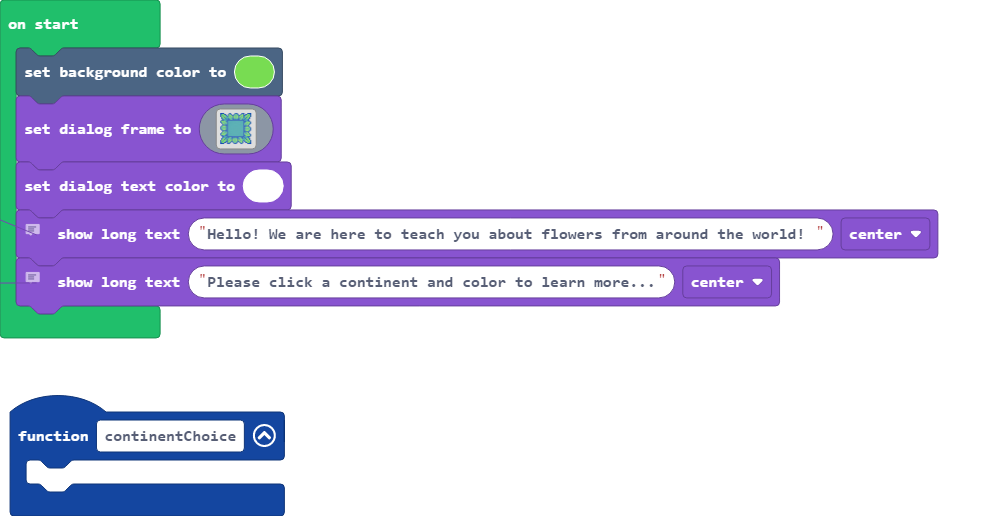
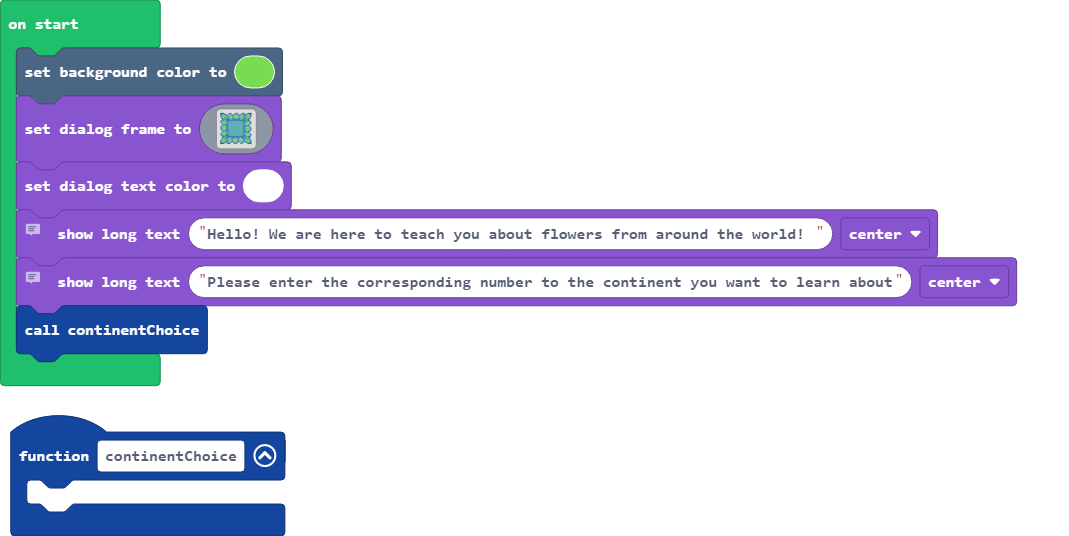
Update main.blocks, main.ts

Changed region(s): [[0.0, 0.0, 0.9697, 0.8992], [0.0303, 0.8992, 0.303, 1.0], [0.0, 0.7752, 0.0303, 0.8062]]

diff --git a/main.ts b/main.ts
@@ -41,4 +41,5 @@ game.setDialogTextColor(1)
 // This text intros the user and tells them what the game will include
 game.showLongText("Hello! We are here to teach you about flowers from around the world! ", DialogLayout.Center)
 // This long text is part two of the first text explaining what the game will be
-game.showLongText("Please click a continent and color to learn more...", DialogLayout.Center)
+game.showLongText("Please enter the corresponding number to the continent you want to learn about", DialogLayout.Center)
+continentChoice()
